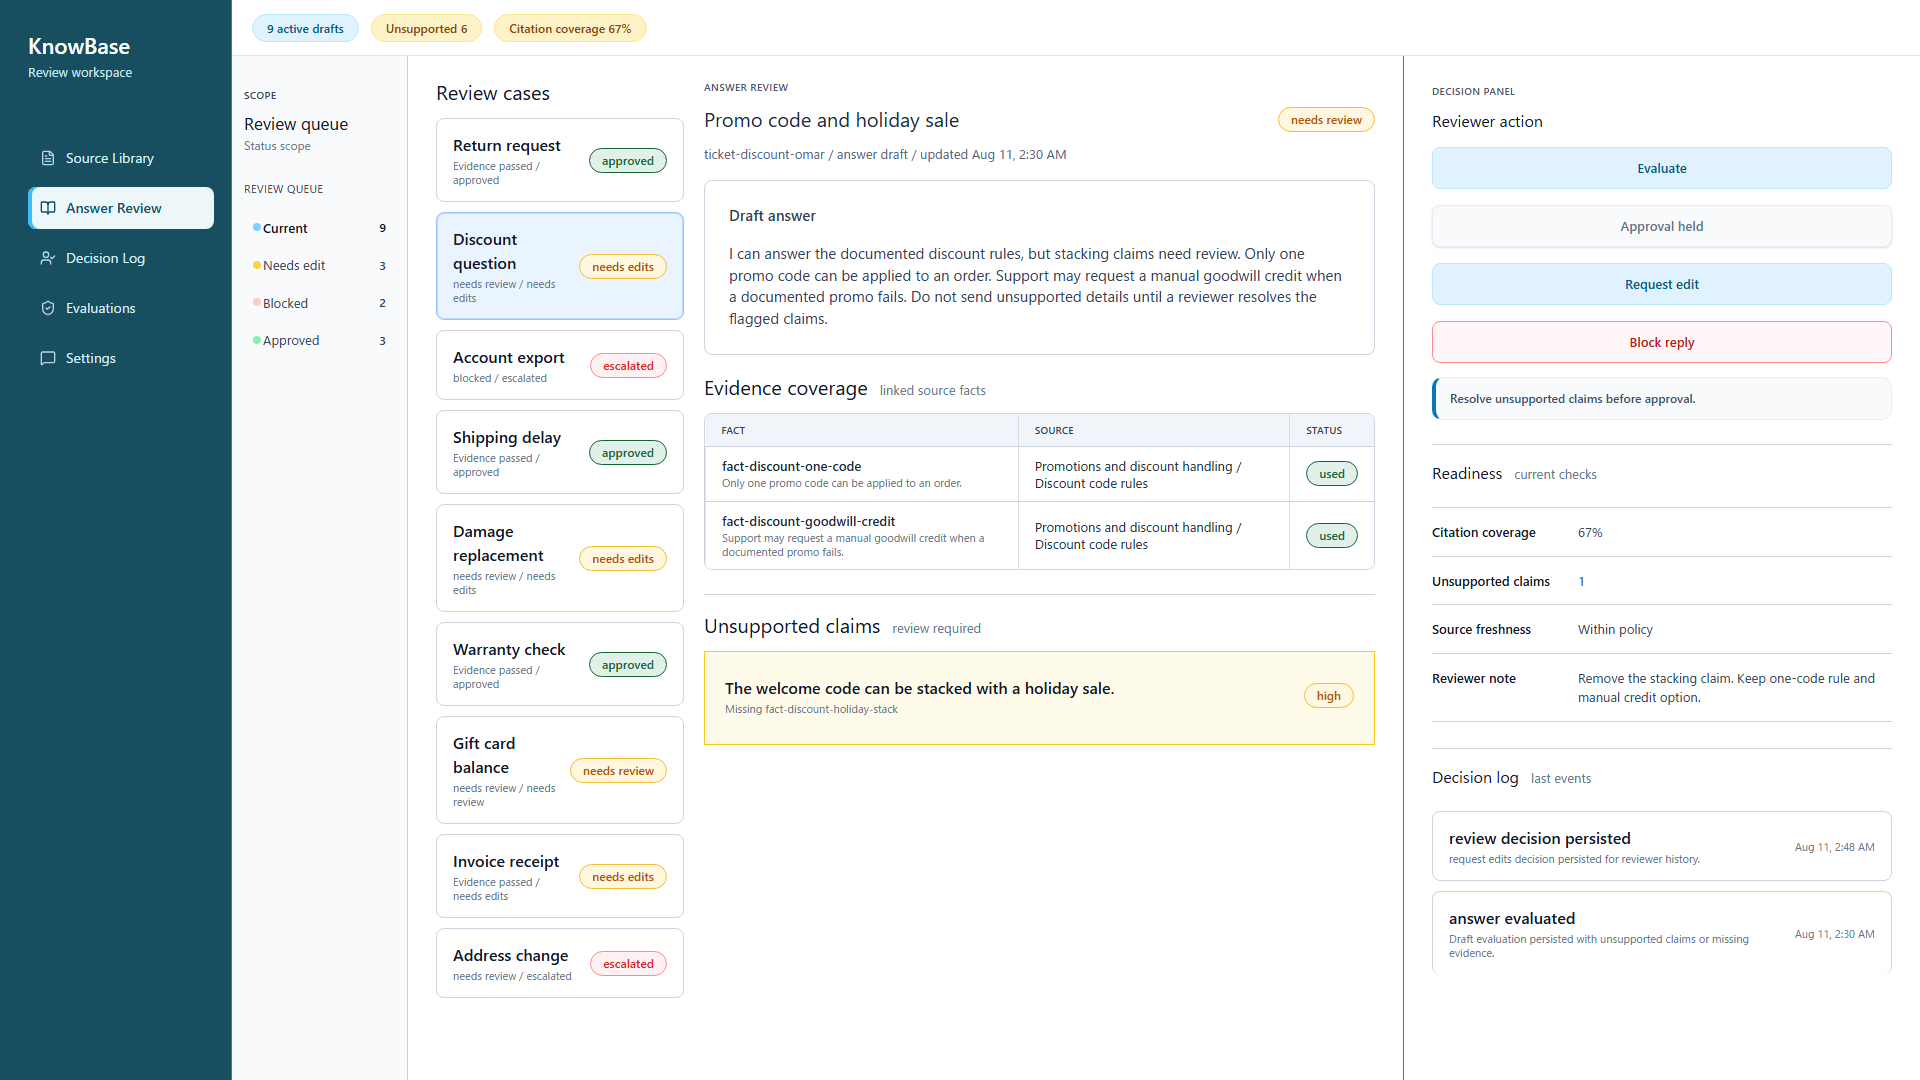
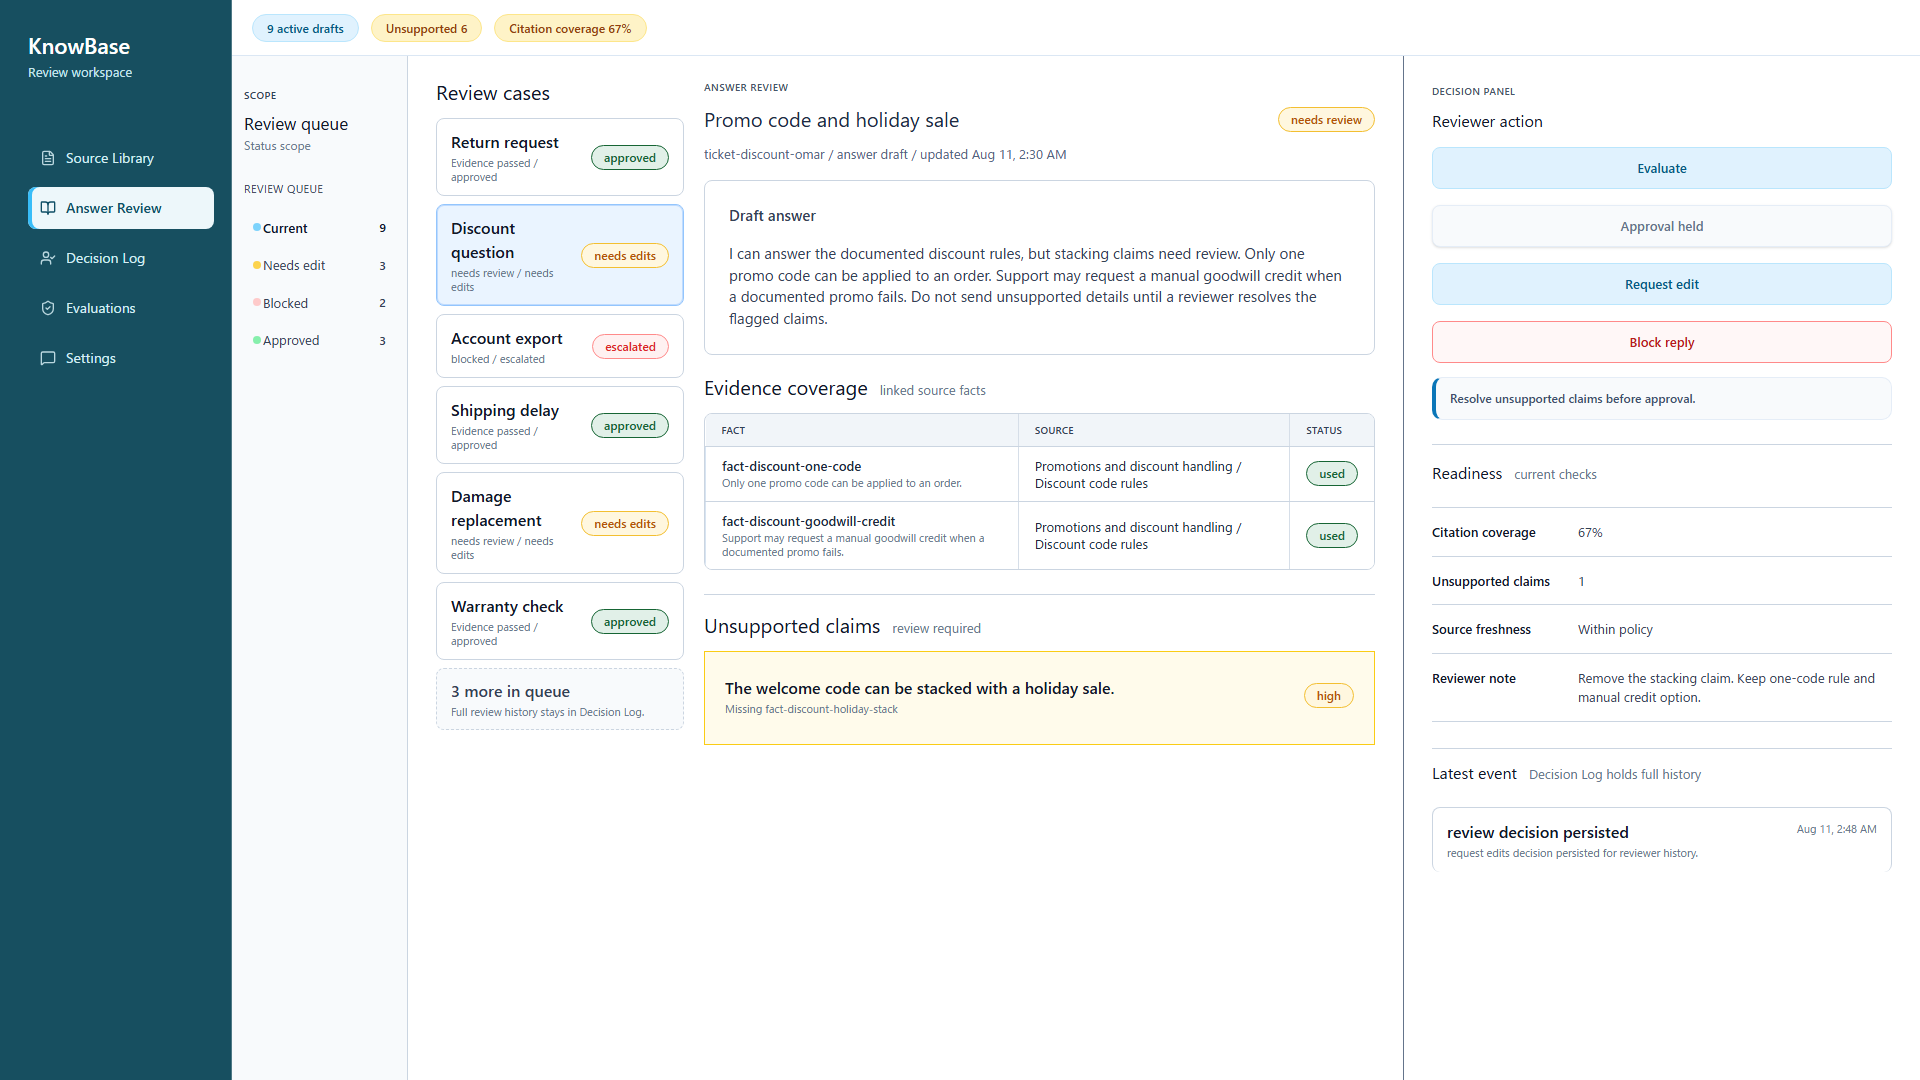
Update booking overview and support review presentation

diff --git a/apps/booking-ops/resources/js/pages/dashboard.tsx b/apps/booking-ops/resources/js/pages/dashboard.tsx
@@ -3,13 +3,14 @@ import { useState } from 'react';
 
 import { AppShell } from '@/components/app-shell';
 import { AttemptForm } from '@/components/attempt-form';
-import {
-    AttemptRail,
-    BookingTable,
-    MetricsCards,
-} from '@/components/booking-widgets';
+import { AttemptRail, MetricsCards } from '@/components/booking-widgets';
 import { Card, CardContent, CardHeader } from '@/components/ui/card';
-import type { BookingPageProps } from '@/types/booking';
+import type {
+    BookingAttempt,
+    BookingPageProps,
+    Metrics,
+    SchedulingConstraint,
+} from '@/types/booking';
 
 export default function Dashboard(props: BookingPageProps) {
     const [selectedCustomerId, setSelectedCustomerId] = useState(
@@ -27,11 +28,15 @@ export default function Dashboard(props: BookingPageProps) {
                 <MetricsCards metrics={props.metrics} />
                 <div className="grid grid-cols-[minmax(0,1fr)_420px] gap-5">
                     <div className="space-y-5">
-                        <BookingTable bookings={props.bookings} />
-                        <AttemptRail
+                        <CurrentStatePanel
                             attempts={props.attempts}
-                            title="Latest request outcome"
-                            description="The most recent availability check stays visible with its booking rule result."
+                            constraints={props.constraints}
+                            metrics={props.metrics}
+                        />
+                        <AttemptRail
+                            attempts={props.attempts.slice(0, 5)}
+                            title="Latest request outcomes"
+                            description="Recent intake decisions, holds, and blocked requests stay visible without becoming the operations queue."
                         />
                     </div>
                     <div className="space-y-5">
@@ -95,6 +100,52 @@ export default function Dashboard(props: BookingPageProps) {
     );
 }
 
+function CurrentStatePanel({
+    attempts,
+    constraints,
+    metrics,
+}: {
+    attempts: BookingAttempt[];
+    constraints: SchedulingConstraint[];
+    metrics: Metrics;
+}) {
+    const activeRules = constraints.filter((constraint) => constraint.isActive);
+    const followUps = attempts.filter((attempt) =>
+        ['pending_review', 'payment_hold'].includes(attempt.status),
+    );
+
+    return (
+        <Card>
+            <CardHeader className="pb-3">
+                <div className="text-sm font-semibold text-slate-950">
+                    Current state
+                </div>
+                <p className="mt-1 text-xs text-slate-500">
+                    Intake health, active rules, and boundary status for the
+                    booking workspace.
+                </p>
+            </CardHeader>
+            <CardContent className="grid grid-cols-3 gap-3 pt-0">
+                <StateTile
+                    label="Request intake"
+                    value={`${attempts.length} checks`}
+                    detail={`${followUps.length} need follow-up`}
+                />
+                <StateTile
+                    label="Booking rules active"
+                    value={`${activeRules.length} rules`}
+                    detail={`${metrics.blockedAttempts} blocked requests`}
+                />
+                <StateTile
+                    label="Reservation holds only"
+                    value={`${metrics.activeBookings} active`}
+                    detail={`${metrics.releasedByCancellation} released holds`}
+                />
+            </CardContent>
+        </Card>
+    );
+}
+
 function Stat({ label, value }: { label: string; value: string | number }) {
     return (
         <div className="rounded-lg border border-slate-200 bg-slate-50 p-2.5">
@@ -103,6 +154,30 @@ function Stat({ label, value }: { label: string; value: string | number }) {
             </div>
             <div className="mt-1 text-base font-semibold text-slate-950">
                 {value}
+            </div>
+        </div>
+    );
+}
+
+function StateTile({
+    detail,
+    label,
+    value,
+}: {
+    detail: string;
+    label: string;
+    value: string;
+}) {
+    return (
+        <div className="rounded-lg border border-slate-200 bg-slate-50 p-3">
+            <div className="text-[11px] font-extrabold tracking-[0.04em] text-slate-500 uppercase">
+                {label}
+            </div>
+            <div className="mt-2 text-lg font-extrabold text-slate-900">
+                {value}
+            </div>
+            <div className="mt-1 text-xs leading-5 text-slate-500">
+                {detail}
             </div>
         </div>
     );

diff --git a/apps/support-rag-console/app/assistant/page.tsx b/apps/support-rag-console/app/assistant/page.tsx
@@ -25,6 +25,8 @@ export default async function AssistantPage({
     cases.find((item) => item.draft.id === params?.draft) ??
     cases.find((item) => item.reviewedDraft.status !== "approved") ??
     cases[0];
+  const visibleCases = visibleReviewCases(cases, focusCase.draft.id);
+  const hiddenCaseCount = Math.max(cases.length - visibleCases.length, 0);
   const approvalState = getApprovalState(focusCase);
   const unsupportedCount = cases.reduce(
     (total, item) => total + item.draft.unsupportedClaims.length,
@@ -93,7 +95,7 @@ export default async function AssistantPage({
           <section>
             <ConsoleTitle title="Review cases" />
             <div className="reviewCaseList">
-              {cases.map((item) => (
+              {visibleCases.map((item) => (
                 <Link
                   className={
                     item.draft.id === focusCase.draft.id
@@ -116,6 +118,14 @@ export default async function AssistantPage({
                   />
                 </Link>
               ))}
+              {hiddenCaseCount > 0 ? (
+                <div className="reviewCaseSummary">
+                  <strong>{hiddenCaseCount} more in queue</strong>
+                  <span className="tableMeta">
+                    Full review history stays in Decision Log.
+                  </span>
+                </div>
+              ) : null}
             </div>
           </section>
 
@@ -284,11 +294,11 @@ function ReviewerActionPanel({
         />
       </div>
 
-      <div className="consoleBlock">
-        <ConsoleTitle title="Decision log" meta="last events" />
+      <div className="consoleBlock compactInspectorBlock">
+        <ConsoleTitle title="Latest event" meta="Decision Log holds full history" />
         <div className="consoleCardList">
-          {focusCase.auditTrail.slice(0, 4).map((event) => (
-            <div className="compactCard" key={event.id}>
+          {focusCase.auditTrail.slice(0, 1).map((event) => (
+            <div className="compactCard latestEventCard" key={event.id}>
               <div>
                 <strong>{event.event.replaceAll("_", " ")}</strong>
                 <span className="tableMeta">{event.message}</span>
@@ -300,6 +310,25 @@ function ReviewerActionPanel({
       </div>
     </>
   );
+}
+
+function visibleReviewCases(
+  cases: ReturnType<typeof getReviewedCases>,
+  selectedDraftId: string,
+) {
+  const visible = cases.slice(0, 6);
+
+  if (visible.some((item) => item.draft.id === selectedDraftId)) {
+    return visible;
+  }
+
+  const selected = cases.find((item) => item.draft.id === selectedDraftId);
+
+  if (!selected) {
+    return visible;
+  }
+
+  return [...visible.slice(0, 5), selected];
 }
 
 function caseTitle(subject: string) {

diff --git a/apps/support-rag-console/app/globals.css b/apps/support-rag-console/app/globals.css
@@ -1357,7 +1357,7 @@ a.compactCard:hover {
 
 .reviewCaseList {
   display: grid;
-  gap: 10px;
+  gap: 8px;
 }
 
 .reviewCaseCard {
@@ -1368,10 +1368,10 @@ a.compactCard:hover {
   color: inherit;
   cursor: pointer;
   display: grid;
-  gap: 12px;
+  gap: 10px;
   grid-template-columns: minmax(0, 1fr) auto;
   overflow: hidden;
-  padding: 14px 16px;
+  padding: 11px 14px;
   transition:
     background-color 120ms ease,
     border-color 120ms ease,
@@ -1392,6 +1392,24 @@ a.compactCard:hover {
   background: #eaf4ff;
   border-color: #93c5fd;
   box-shadow: inset 0 0 0 1px #bfdbfe;
+}
+
+.reviewCaseSummary {
+  background: #f8fafc;
+  border: 1px dashed #cbd5e1;
+  border-radius: 8px;
+  color: #334155;
+  padding: 10px 14px;
+}
+
+.compactInspectorBlock {
+  margin-top: 18px;
+  padding-top: 14px;
+}
+
+.latestEventCard {
+  align-items: start;
+  padding: 12px 14px;
 }
 
 .draftReviewGrid {

diff --git a/apps/booking-ops/resources/js/components/booking-widgets.tsx b/apps/booking-ops/resources/js/components/booking-widgets.tsx
@@ -219,7 +219,7 @@ export function BookingTable({
 
 export function AttemptRail({
     attempts,
-    title = 'Request audit trail',
+    title = 'Request outcome history',
     description = 'Accepted, blocked, and incomplete requests stay visible for review.',
 }: Pick<BookingPageProps, 'attempts'> & {
     title?: string;

diff --git a/apps/booking-ops/database/seeders/DatabaseSeeder.php b/apps/booking-ops/database/seeders/DatabaseSeeder.php
@@ -533,7 +533,7 @@ class DatabaseSeeder extends Seeder
                 'pending_review',
                 'payment_hold',
                 null,
-                'Reservation hold is waiting for customer confirmation; payment processor actions are not connected.',
+                'Reservation hold is waiting for customer confirmation; payment status stays inside the operations workspace.',
                 '2026-06-30 16:35:00',
             ),
         ], ['id']);